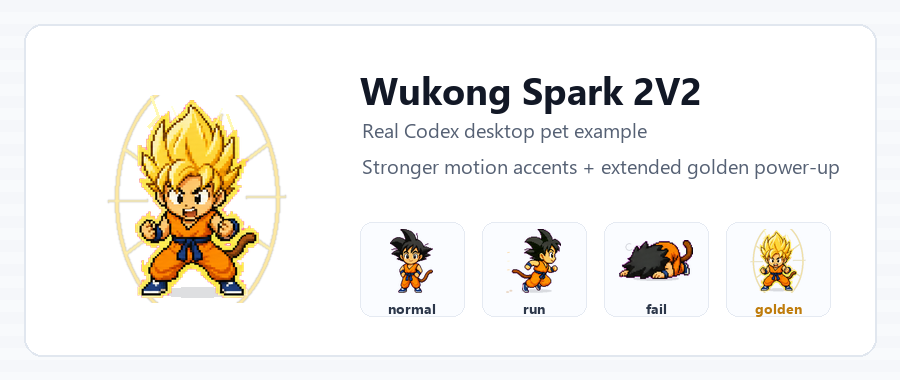
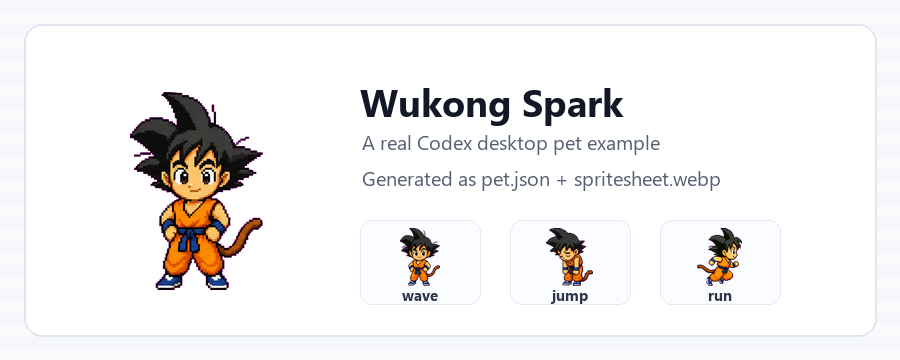
Restore original Wukong Spark showcase

diff --git a/examples/wukong-spark/README.md b/examples/wukong-spark/README.md
@@ -1,59 +1,33 @@
-# Wukong Spark 2V2
+# Wukong Spark
 
-`Wukong Spark 2V2` is a real Codex desktop pet package generated for this project and loaded by Codex Desktop.
+`Wukong Spark` is a real Codex desktop pet package generated for this project and loaded by Codex Desktop.
 
 It is useful as a GitHub showcase because it contains the actual files a finished pet needs:
 
 - `pet.json`
 - `spritesheet.webp`
 
-The sprite sheet follows the official Codex pet layout: 9 rows x 8 frame slots. 2V2 keeps the original character face and adds stronger movement accents, clearer reaction frames, and an extended golden power-up hold.
+The sprite sheet follows the official Codex pet layout: 9 actions x 8 frames.
 
 ## Preview
 
-![Wukong Spark 2V2 preview](../../assets/examples/wukong-spark/preview.png)
+![Wukong Spark preview](../../assets/examples/wukong-spark/preview.png)
 
-## Full Static Frames
+## Official Actions
 
-The frame board below is copied from the real `spritesheet.webp` layout. It keeps the original 9 rows x 8 columns and does not rename the action rows.
+![Wukong Spark actions](../../assets/examples/wukong-spark/actions.png)
 
-![Wukong Spark 2V2 full spritesheet frame board](../../assets/examples/wukong-spark/all-frames.png)
+## Animation Sample
 
-## Row Animations
-
-These GIFs are generated row by row from the same sprite sheet. They preserve the original row order.
-
-<p>
-  <img src="../../assets/examples/wukong-spark/row-01.gif" width="120" alt="Wukong Spark 2V2 row 1">
-  <img src="../../assets/examples/wukong-spark/row-02.gif" width="120" alt="Wukong Spark 2V2 row 2">
-  <img src="../../assets/examples/wukong-spark/row-03.gif" width="120" alt="Wukong Spark 2V2 row 3">
-  <img src="../../assets/examples/wukong-spark/row-04.gif" width="120" alt="Wukong Spark 2V2 row 4">
-  <img src="../../assets/examples/wukong-spark/row-05.gif" width="120" alt="Wukong Spark 2V2 row 5">
-  <img src="../../assets/examples/wukong-spark/row-06.gif" width="120" alt="Wukong Spark 2V2 row 6">
-  <img src="../../assets/examples/wukong-spark/row-07.gif" width="120" alt="Wukong Spark 2V2 row 7">
-  <img src="../../assets/examples/wukong-spark/row-08.gif" width="120" alt="Wukong Spark 2V2 row 8">
-  <img src="../../assets/examples/wukong-spark/row-09.gif" width="120" alt="Wukong Spark 2V2 row 9">
-</p>
-
-## Animation Showcase
-
-![Wukong Spark 2V2 full animation showcase](../../assets/examples/wukong-spark/showcase.gif)
-
-## Golden Power-Up
-
-The sprite sheet also includes a temporary golden-hair power-up state.
-
-![Wukong Spark 2V2 golden power-up](../../assets/examples/wukong-spark/golden-power-up.png)
-
-![Wukong Spark 2V2 golden power-up animation](../../assets/examples/wukong-spark/golden-power-up.gif)
+![Wukong Spark waving](../../assets/examples/wukong-spark/waving.gif)
 
 ## Pet Metadata
 
 ```json
 {
-  "id": "wukong-spark-2v2",
-  "displayName": "Wukong Spark 2V2",
-  "description": "A sharper Wukong Spark variant with stronger run motion, clearer reaction accents, and an extended golden power-up hold.",
+  "id": "wukong-spark",
+  "displayName": "Wukong Spark",
+  "description": "A tiny original chibi martial-arts desktop pet with spiky black hair, orange training outfit, monkey tail, bouncing waves, and a temporary golden power-up animation.",
   "spritesheetPath": "spritesheet.webp"
 }
 ```
@@ -62,5 +36,5 @@ The sprite sheet also includes a temporary golden-hair power-up state.
 
 - A finished pet is small and portable.
 - Codex reads `pet.json` and `spritesheet.webp`.
-- The director workflow should help users lock the character first, then produce the 9 official action rows and any special frames inside those rows.
-- README screenshots should show frames from the real production sprite sheet instead of hand-labeled action guesses.
+- The director workflow should help users lock the character first, then produce the 9 official action rows.
+- README screenshots can use generated preview assets, while the example folder keeps the real production file.

diff --git a/README.md b/README.md
@@ -21,7 +21,7 @@
 </p>
 
 <p align="center">
-  <img src="assets/examples/wukong-spark/preview.png" alt="Wukong Spark 2V2 Codex desktop pet example" width="760">
+  <img src="assets/examples/wukong-spark/preview.png" alt="Wukong Spark Codex desktop pet example" width="760">
 </p>
 
 ## 快速入口
@@ -266,34 +266,16 @@ Codex pets 目录：Codex 识别并加载宠物
 我有一张参考图，帮我做成 Codex 官方桌面宠物。
 ```
 
-### 真实案例：Wukong Spark 2V2
+### 真实案例：Wukong Spark
 
-`Wukong Spark 2V2` 是一个已经能被 Codex 桌面端加载的真实宠物包，不是概念图。它包含标准的 `pet.json` 和 `spritesheet.webp`，并按 Codex 官方格式整理为 9 个动作行、8 列帧位。2V2 在原版基础上增强了跑动速度感、失败反应、等待细节和金发爆气持续状态。
-
-<p align="center">
-  <img src="assets/examples/wukong-spark/showcase.gif" alt="Wukong Spark 2V2 full animation showcase" width="280">
-</p>
-
-下面的图全部来自 `examples/wukong-spark/spritesheet.webp`，按原始帧直接展示，不重新给动作编英文名字。
+`Wukong Spark` 是一个已经能被 Codex 桌面端加载的真实宠物包，不是概念图。它包含标准的 `pet.json` 和 `spritesheet.webp`，并按 Codex 官方格式整理为 9 个动作、每个动作 8 帧。
 
 <p align="center">
-  <img src="assets/examples/wukong-spark/golden-power-up.png" alt="Wukong Spark 2V2 golden power-up state" width="620">
+  <img src="assets/examples/wukong-spark/waving.gif" alt="Wukong Spark waving animation" width="160">
 </p>
 
 <p align="center">
-  <img src="assets/examples/wukong-spark/all-frames.png" alt="Wukong Spark 2V2 full spritesheet frame board" width="760">
-</p>
-
-<p align="center">
-  <img src="assets/examples/wukong-spark/row-01.gif" alt="Wukong Spark 2V2 row 1 animation" width="120">
-  <img src="assets/examples/wukong-spark/row-02.gif" alt="Wukong Spark 2V2 row 2 animation" width="120">
-  <img src="assets/examples/wukong-spark/row-03.gif" alt="Wukong Spark 2V2 row 3 animation" width="120">
-  <img src="assets/examples/wukong-spark/row-04.gif" alt="Wukong Spark 2V2 row 4 animation" width="120">
-  <img src="assets/examples/wukong-spark/row-05.gif" alt="Wukong Spark 2V2 row 5 animation" width="120">
-  <img src="assets/examples/wukong-spark/row-06.gif" alt="Wukong Spark 2V2 row 6 animation" width="120">
-  <img src="assets/examples/wukong-spark/row-07.gif" alt="Wukong Spark 2V2 row 7 animation" width="120">
-  <img src="assets/examples/wukong-spark/row-08.gif" alt="Wukong Spark 2V2 row 8 animation" width="120">
-  <img src="assets/examples/wukong-spark/row-09.gif" alt="Wukong Spark 2V2 row 9 animation" width="120">
+  <img src="assets/examples/wukong-spark/actions.png" alt="Wukong Spark nine official actions" width="520">
 </p>
 
 查看完整案例：[examples/wukong-spark](examples/wukong-spark)。这个案例展示了最终用户拿到的真实文件结构：`pet.json` + `spritesheet.webp`。

diff --git a/docs/PUBLISHING.md b/docs/PUBLISHING.md
@@ -65,7 +65,7 @@ The package is already prepared with:
 
 For a beginner-friendly release:
 
-1. Create a tag, such as `v0.5.2`.
+1. Create a tag, such as `v0.5.3`.
 2. Create a GitHub Release from that tag.
 3. Tell Windows users to download the source ZIP and double-click `install.cmd`.
 4. Tell Codex users to run the GitHub project installer so both `codex-pet-director` and `create-pet` are installed.
@@ -73,11 +73,11 @@ For a beginner-friendly release:
 Release title:
 
 ```text
-Codex Pet Director v0.5.2
+Codex Pet Director v0.5.3
 ```
 
 Short release description:
 
 ```text
-Adds a safe `create-pet` launcher gate so bare `/create-pet` asks whether to create, continue, or inspect before production.
+Restores the Wukong Spark showcase and bundled pet package to the original stable version.
 ```

diff --git a/docs/README.en.md b/docs/README.en.md
@@ -179,7 +179,7 @@ I have a reference image. Turn it into an official Codex desktop pet.
 
 ## Example
 
-See [../examples/wukong-spark](../examples/wukong-spark) for the Wukong Spark 2V2 generated Codex desktop pet package. It contains the actual `pet.json` and `spritesheet.webp` files Codex can load, plus a full static frame board and row-by-row GIFs generated directly from the sprite sheet.
+See [../examples/wukong-spark](../examples/wukong-spark) for the original Wukong Spark generated Codex desktop pet package. It contains the actual `pet.json` and `spritesheet.webp` files Codex can load, plus an action preview and one animation sample.
 
 See [../examples/blue-robot-cat](../examples/blue-robot-cat) for a complete sample brief, preview card, and action prompt notes.
 

diff --git a/examples/README.md b/examples/README.md
@@ -5,7 +5,7 @@ These examples show both the planning stage and the final generated Codex pet pa
 ## Available Examples
 
 - [blue-robot-cat](blue-robot-cat): a small cyber-cute robot cat with screen-face expressions and clear action notes.
-- [wukong-spark](wukong-spark): the Wukong Spark 2V2 generated Codex desktop pet package with `pet.json`, `spritesheet.webp`, static frames, and row GIFs.
+- [wukong-spark](wukong-spark): the original Wukong Spark generated Codex desktop pet package with `pet.json`, `spritesheet.webp`, action preview, and one animation sample.
 
 ## How To Use An Example
 
